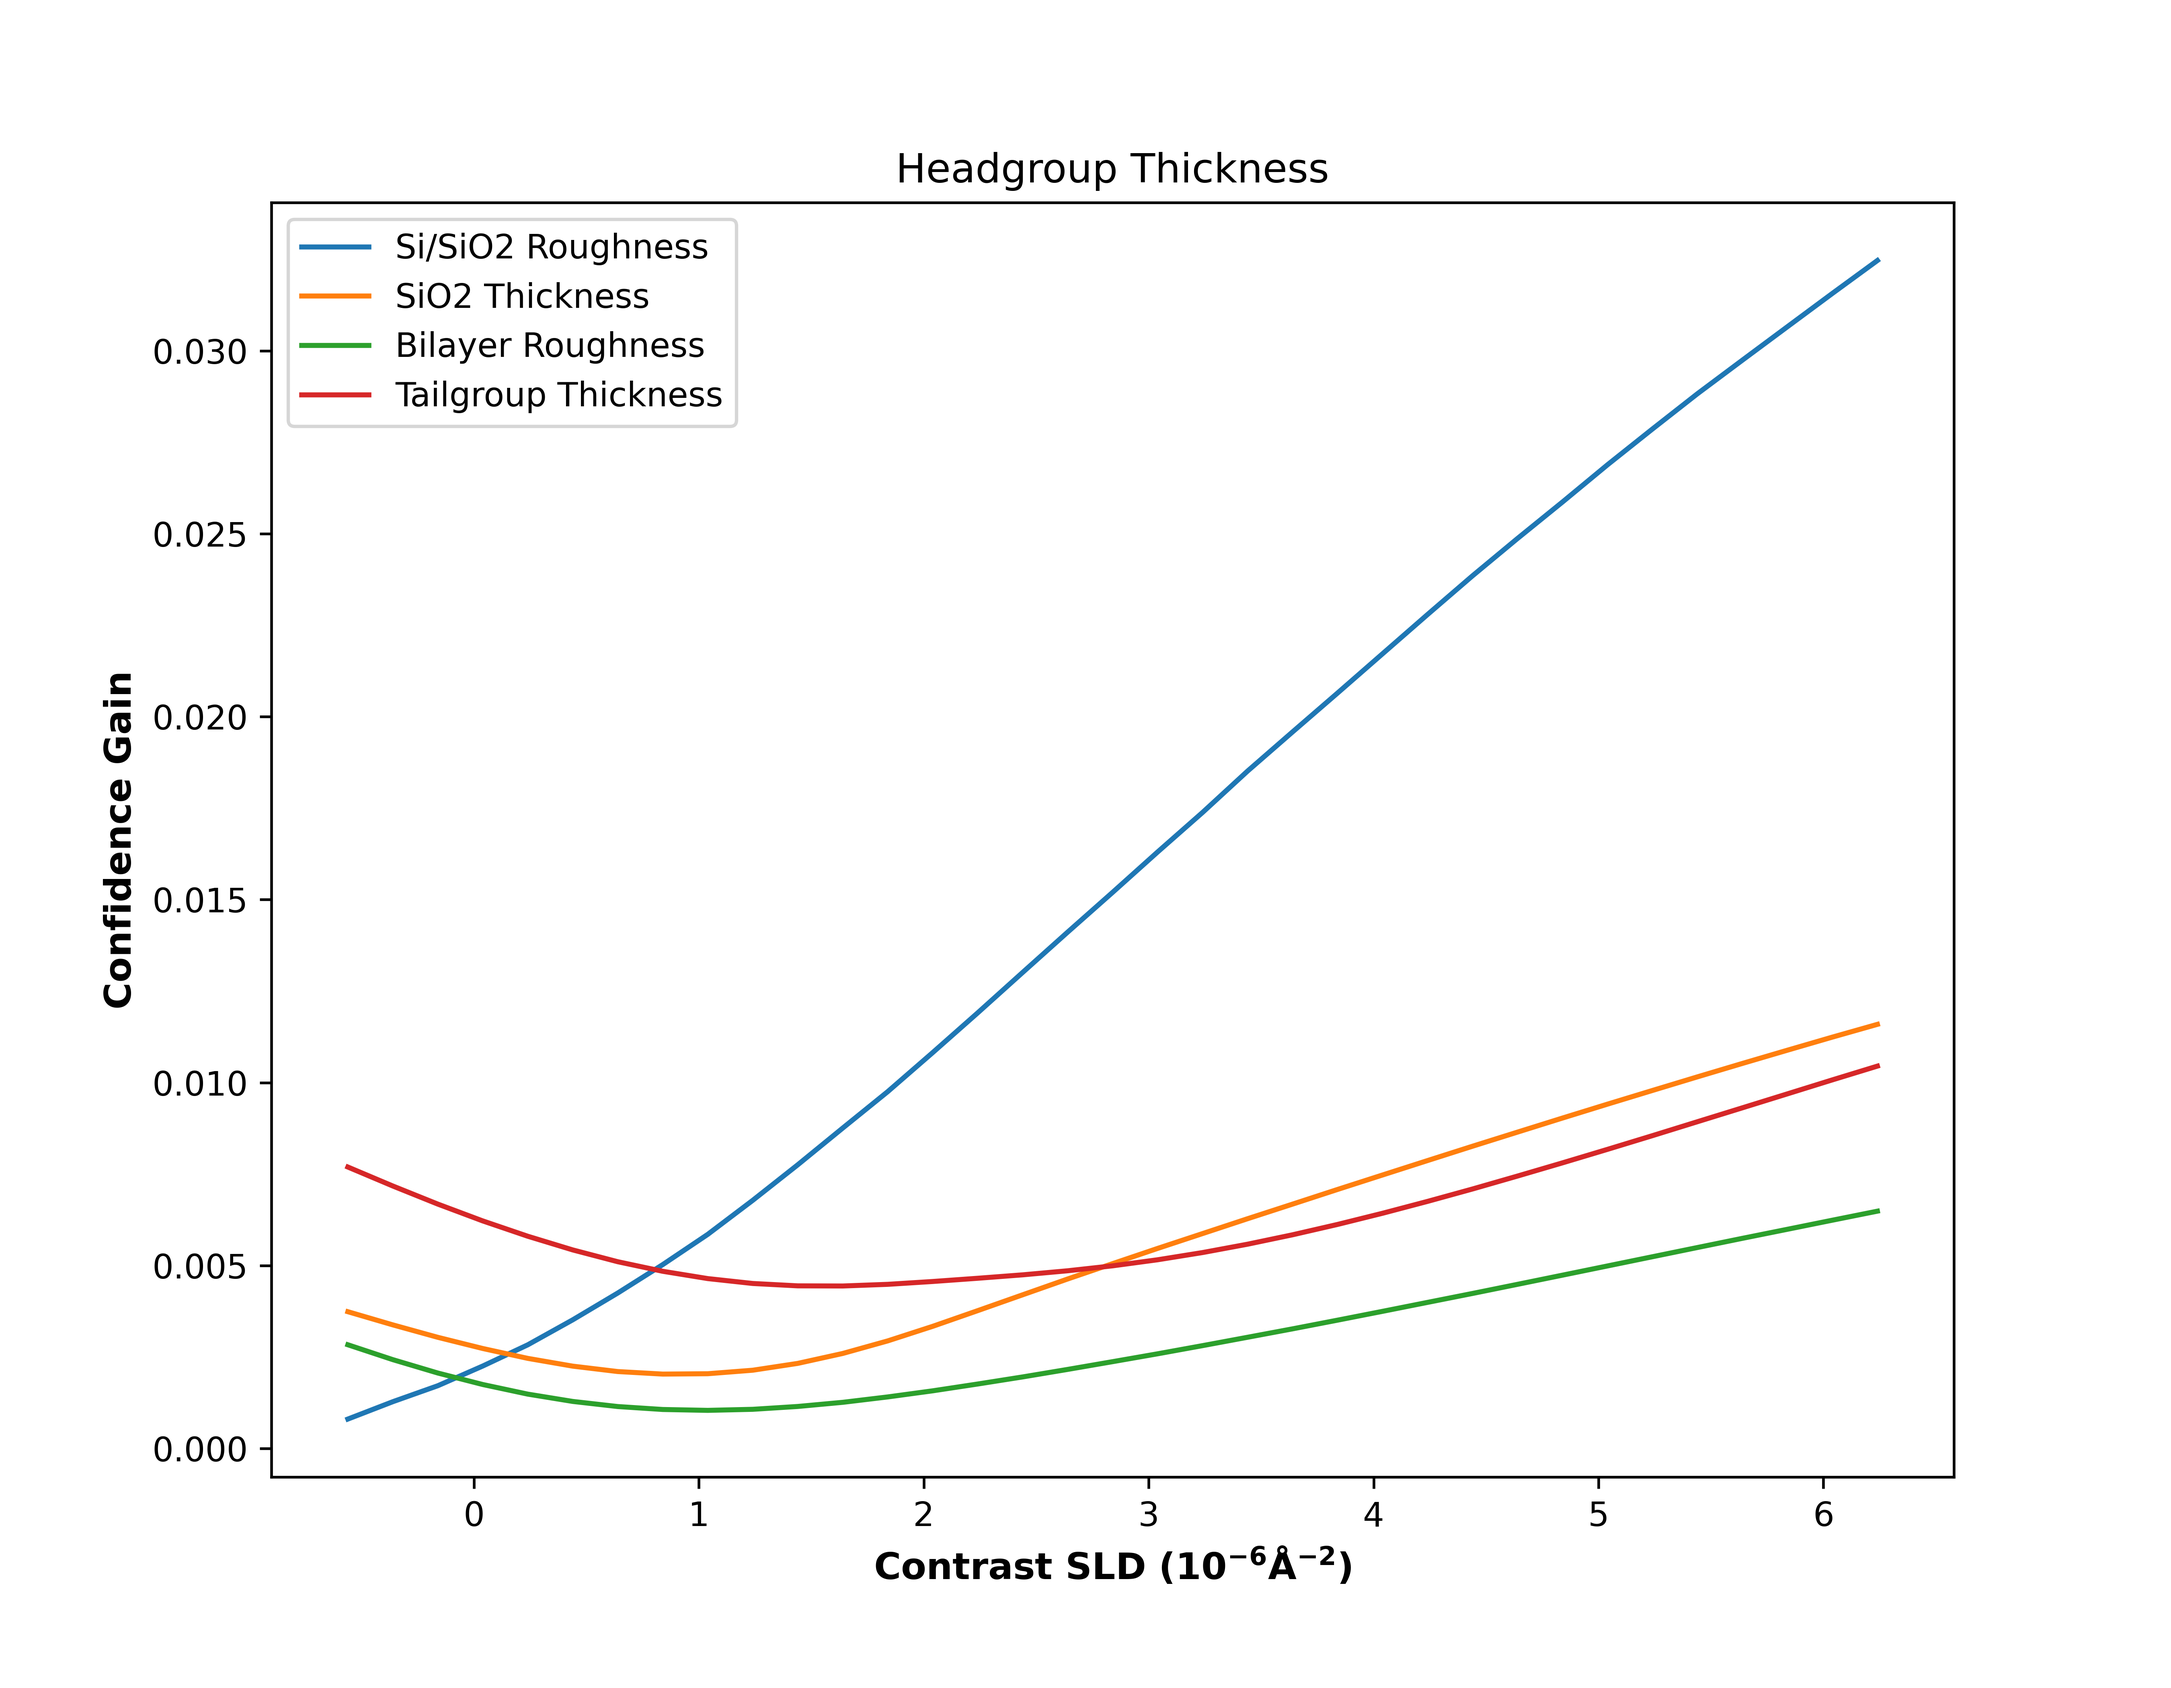
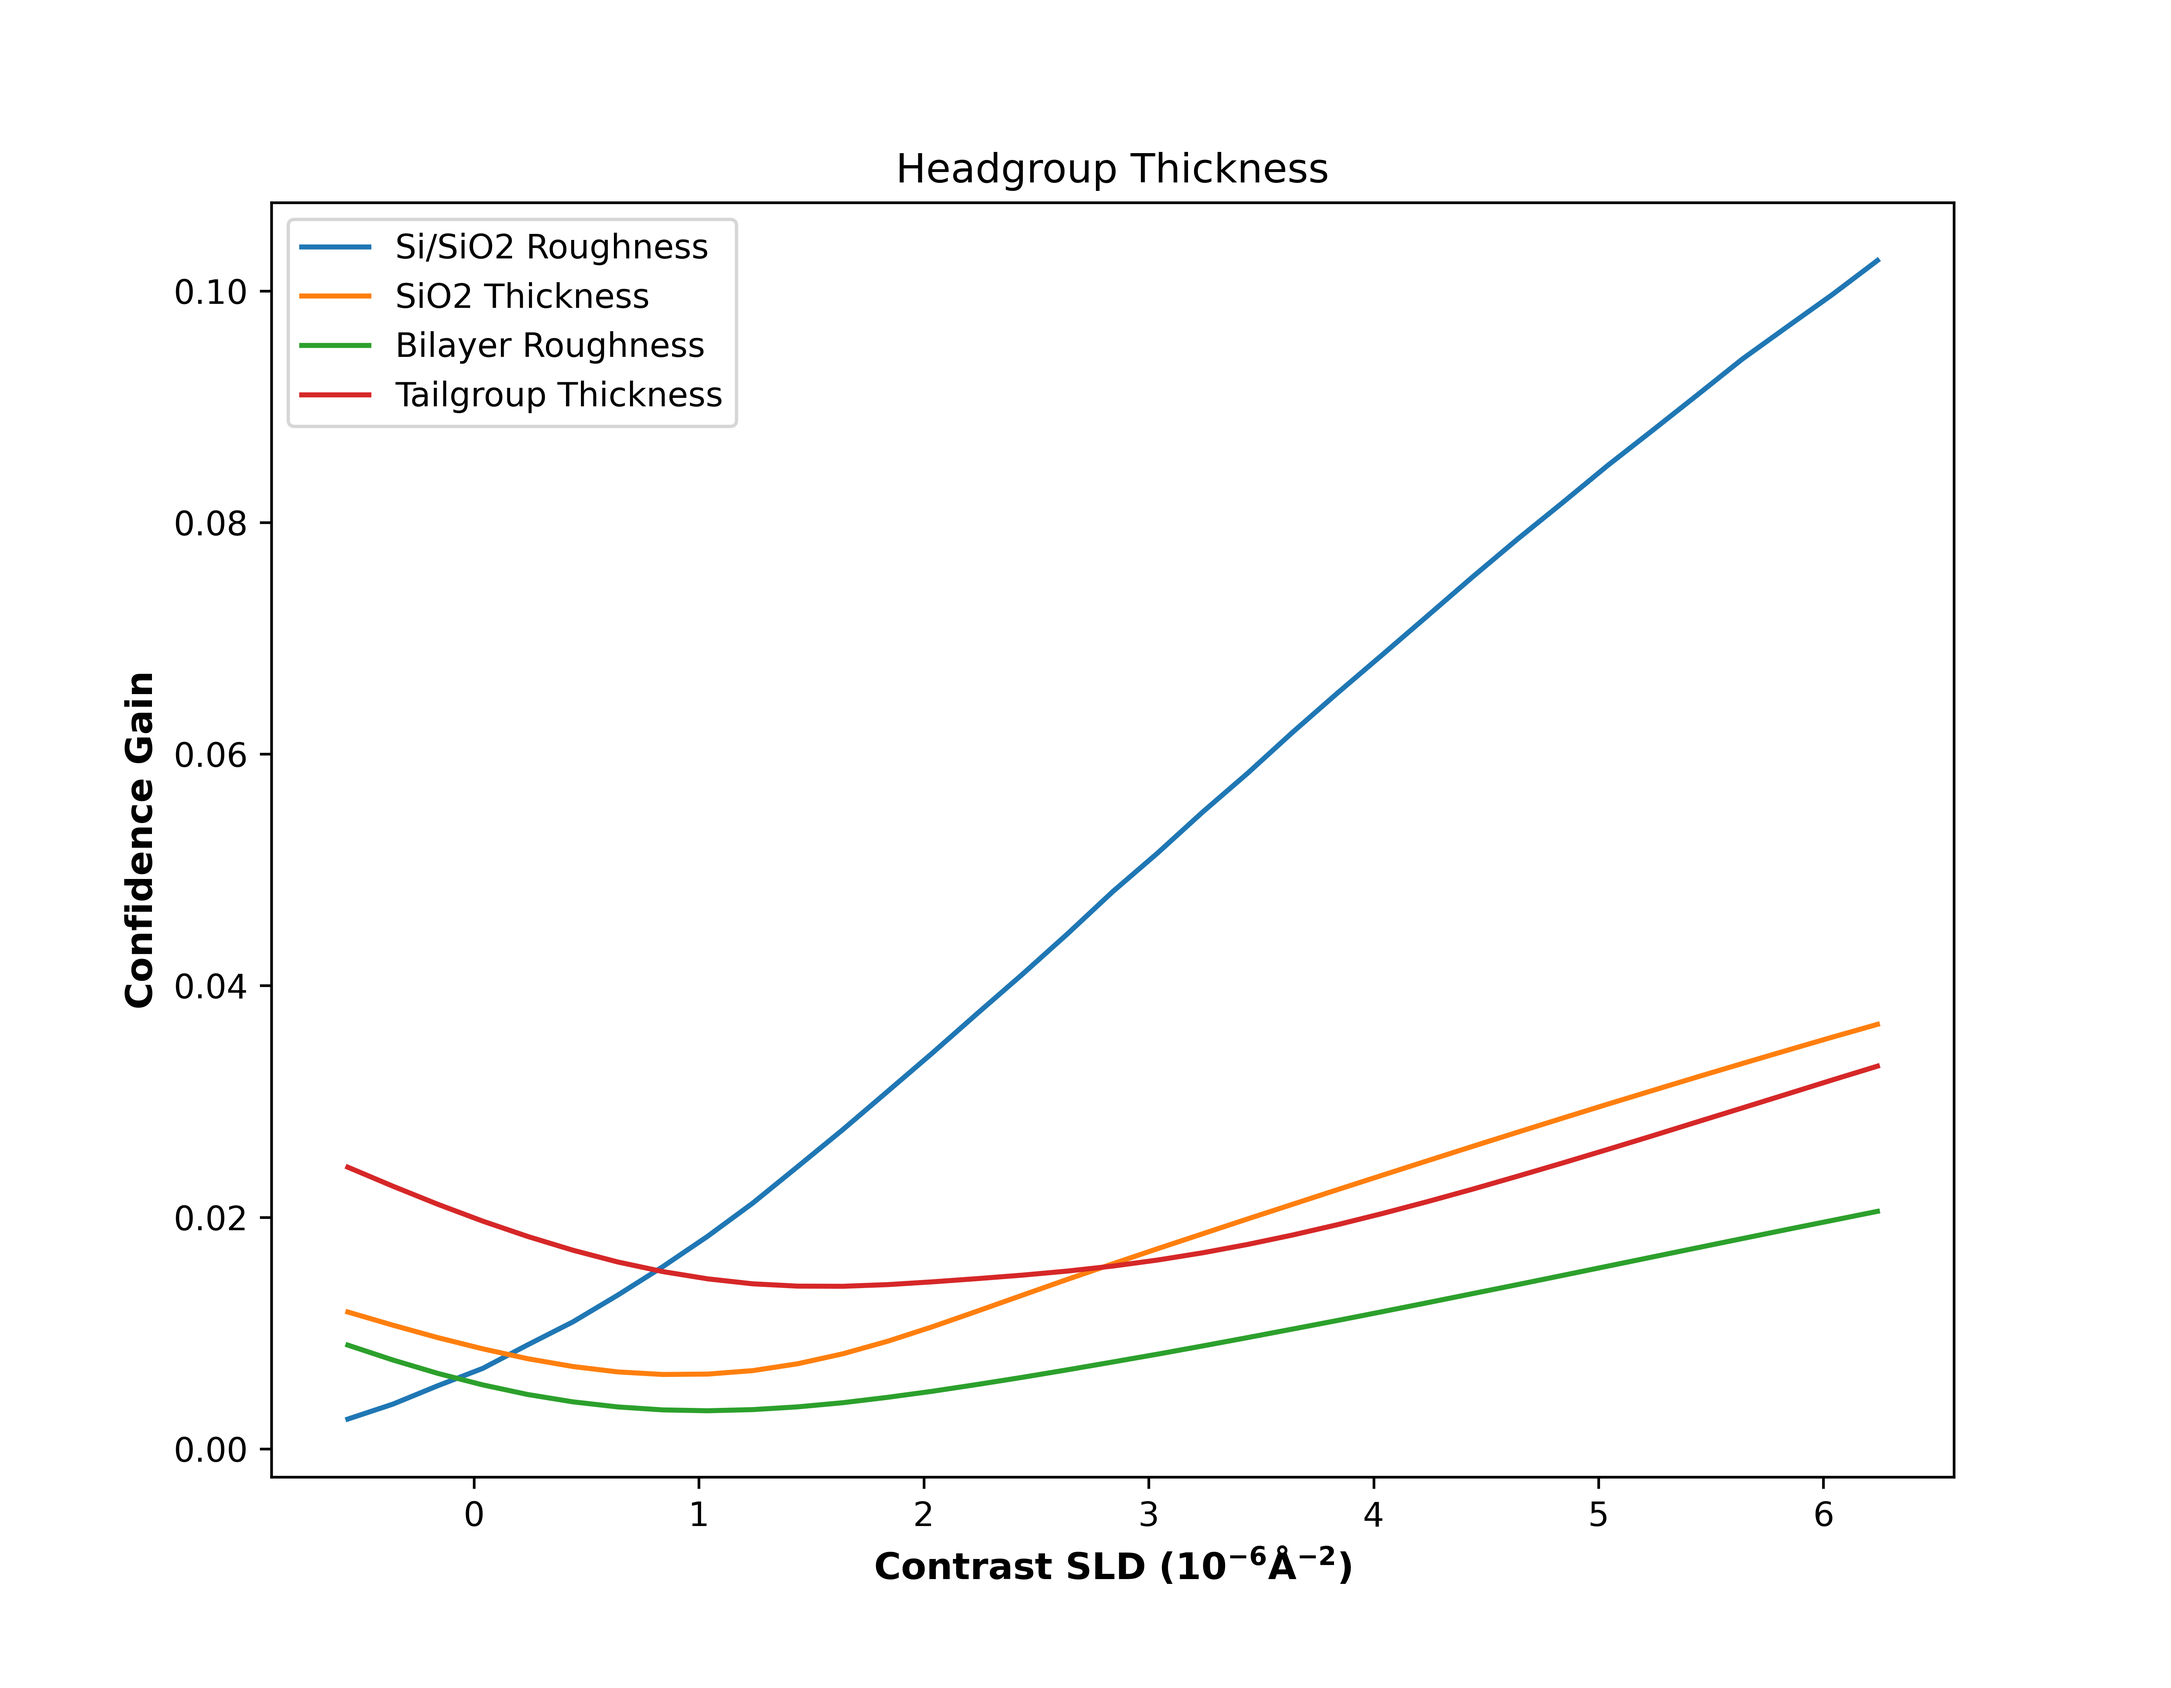
Updated results

diff --git a/bias/fitting_sampling_biases.py b/bias/fitting_sampling_biases.py
@@ -1,4 +1,3 @@
-import matplotlib.pyplot as plt
 import numpy as np
 import os
 
@@ -6,56 +5,6 @@ from refnx.analysis import Objective, CurveFitter
 from simulate import simulate
 
 from utils import Sampler, vary_structure
-
-def difference_plots_data(structure, angle_times):
-    for i in range(5):
-        model, data = simulate(structure(), angle_times)
-
-        data_sim = data.y
-        data_true = model(data.x)
-        
-        fig1 = plt.figure(figsize=[9,7], dpi=600)
-        ax1 = fig1.add_subplot(111)
-        ax1.errorbar(data.x, data.y, data.y_err, color="black", marker="o", ms=3, lw=0, elinewidth=1, capsize=1.5)
-        ax1.plot(data.x, data_true, color="red", zorder=20)
-        ax1.set_xlabel("$\mathregular{Q\ (Å^{-1})}$", fontsize=11, weight='bold')
-        ax1.set_ylabel('Reflectivity (arb.)', fontsize=11, weight='bold')
-        ax1.set_yscale('log')
-        ax1.set_xlim(0.005, 0.25)
-        ax1.set_ylim(1e-7, 2)
-        
-        diff = (data_true - data_sim) / np.asarray([sum(x) for x in zip(data_true, data_sim)]) 
-        diff_error = 2*(data.y_err / data.y)*diff
-        
-        fig2 = plt.figure(figsize=[9,7], dpi=600)
-        ax2 = fig2.add_subplot(111)
-        ax2.errorbar(data.x, diff, diff_error, color="black", elinewidth=1, capsize=1.5)
-        ax2.set_xlabel("$\mathregular{Q\ (Å^{-1})}$", fontsize=11, weight='bold')
-        ax2.set_ylabel('Difference (arb.)', fontsize=11, weight='bold')
-        ax2.set_xlim(0.005, 0.25)
-        
-        plt.show()
-
-
-def difference_plots_models(structure, angle_times, n, q=np.arange(0.005, 0.3, 0.00005)):
-    for i in range(n):
-        objective = Objective(*simulate(structure(), angle_times))
-        
-        true = objective.model(q)
-        
-        vary_structure(objective.model.structure, random=True)
-        CurveFitter(objective).fit('differential_evolution', verbose=False)
-
-        fitted = objective.model(q)
-        
-        diff = (true - fitted) / np.asarray([sum(x) for x in zip(true, fitted)]) 
-        
-        fig = plt.figure(figsize=[9,7], dpi=600)
-        ax = fig.add_subplot(111)
-        ax.plot(q, diff)
-        ax.set_xlabel("$\mathregular{Q\ (Å^{-1})}$", fontsize=11, weight='bold')
-        ax.set_ylabel('Difference (arb.)', fontsize=11, weight='bold')
-        plt.show()
 
 def evolution_vs_lbfgs(structure, angle_times, n):
     true = []
@@ -144,10 +93,9 @@ if __name__ == "__main__":
     from structures import thin_layer_sample_1, thin_layer_sample_2
     from structures import easy_sample, many_param_sample
 
-    structure   = many_param_sample
+    structure   = easy_sample
     angle_times = {0.7: (70, 5), #Angle: (Points, Time)
                    2.0: (70, 20)}
 
-    #fitting_sampling_biases(structure, angle_times, 100)
+    fitting_sampling_biases(structure, angle_times, 100)
     #evolution_vs_lbfgs(structure, angle_times, 500)
-    difference_plots_data(structure, angle_times)

diff --git a/bias/simulate.py b/bias/simulate.py
@@ -3,26 +3,22 @@ import numpy as np
 from refnx.dataset import ReflectDataset
 from refnx.reflect import ReflectModel
 
-def simulate(structure, angle_times, dq=2, bkg_rate=1e-7, include_counts=False):
-    #Define the model. 0 background for simulating as background noise is added.
-    model = ReflectModel(structure, scale=1, dq=dq, bkg=0)
+def simulate(structure, angle_times, dq=2, bkg=1e-7, include_counts=False):
+    model = ReflectModel(structure, scale=1, dq=dq, bkg=bkg)
 
     q, r, r_error, counts = [], [], [], []
     total_points = 0
     for angle in angle_times:
         #Simulate the experiment for the angle.
-        points, time  = angle_times[angle]
+        points, time = angle_times[angle]
         total_points += points
-        q_angle, r_angle, r_error_angle, counts_angle = run_experiment(model, angle, points, time, bkg_rate)
+        q_angle, r_angle, r_error_angle, counts_angle = run_experiment(model, angle, points, time)
 
         #Combine the data for the angle with the data from other angles.
-        q       += q_angle
-        r       += r_angle
+        q += q_angle
+        r += r_angle
         r_error += r_error_angle
-        counts  += counts_angle
-
-    #If fitting, the model needs to have the right background.
-    model.bkg.value = bkg_rate
+        counts += counts_angle
 
     if include_counts:
         data = np.zeros((total_points, 4))
@@ -44,8 +40,7 @@ def simulate(structure, angle_times, dq=2, bkg_rate=1e-7, include_counts=False):
     else:
         return model, ReflectDataset([data[:,0], data[:,1], data[:,2]])
 
-def run_experiment(model, angle, points, time, bkg_rate=1e-7, 
-                   directbeam_file="./data/directbeam_wavelength.dat"):
+def run_experiment(model, angle, points, time, directbeam_file="./data/directbeam_wavelength.dat"):
     #Load the directbeam_wavelength.dat file.
     direct_beam = np.loadtxt(directbeam_file, delimiter=',')
     wavelengths = direct_beam[:,0] # 1st column is wavelength, 2nd is flux.
@@ -71,7 +66,7 @@ def run_experiment(model, angle, points, time, bkg_rate=1e-7,
         count_incident = flux_point * time
 
         #Add background noise and get the measured reflected count for the bin.
-        count_reflected = np.random.poisson((r_point*flux_point + bkg_rate) * time)
+        count_reflected = np.random.poisson(r_point*flux_point*time)
 
         #Point has zero reflectivity if there is no flux.
         if count_reflected > 0:
@@ -85,6 +80,6 @@ def run_experiment(model, angle, points, time, bkg_rate=1e-7,
         else:
             r.append(0)
             r_errors.append(0)
-            counts.append(0) #Incident neutrons in the bin
+            counts.append(0)
 
     return q_binned, r, r_errors, counts

diff --git a/bias/difference_plots.py b/bias/difference_plots.py
@@ -1,0 +1,50 @@
+import matplotlib.pyplot as plt
+import numpy as np
+import os
+
+from simulate import simulate
+
+def difference_plots(structure, angle_times):
+    save_path = "./results/difference_plots/"+structure.__name__
+    if not os.path.exists(save_path):
+        os.makedirs(save_path)
+    
+    for i in range(5):
+        model, data = simulate(structure(), angle_times)
+
+        data_sim = data.y
+        data_true = model(data.x)
+        
+        fig1 = plt.figure(figsize=[9,7], dpi=600)
+        ax1 = fig1.add_subplot(111)
+        ax1.errorbar(data.x, data.y, data.y_err, color="black", marker="o", ms=3, lw=0, elinewidth=1, capsize=1.5)
+        ax1.plot(data.x, data_true, color="red", zorder=20)
+        ax1.set_xlabel("$\mathregular{Q\ (Å^{-1})}$", fontsize=11, weight='bold')
+        ax1.set_ylabel('Reflectivity (arb.)', fontsize=11, weight='bold')
+        ax1.set_yscale('log')
+        ax1.set_xlim(0.005, 0.25)
+        ax1.set_ylim(1e-7, 2)
+
+        diff = (data_true - data_sim) / np.asarray([sum(x) for x in zip(data_true, data_sim)]) 
+        diff_error = 2*(data.y_err / data.y)*diff
+        
+        fig2 = plt.figure(figsize=[9,7], dpi=600)
+        ax2 = fig2.add_subplot(111)
+        ax2.errorbar(data.x, diff, diff_error, color="black", elinewidth=1, capsize=1.5)
+        ax2.set_xlabel("$\mathregular{Q\ (Å^{-1})}$", fontsize=11, weight='bold')
+        ax2.set_ylabel('Difference (arb.)', fontsize=11, weight='bold')
+        ax2.set_xlim(0.005, 0.25)
+        
+        fig1.savefig(save_path+'/{}_reflectivity.png'.format(i+1))
+        fig2.savefig(save_path+'/{}_difference.png'.format(i+1))
+        
+if __name__ == "__main__":
+    from structures import similar_sld_sample_1, similar_sld_sample_2
+    from structures import thin_layer_sample_1, thin_layer_sample_2
+    from structures import easy_sample, many_param_sample
+
+    structure   = many_param_sample
+    angle_times = {0.7: (70, 5), #Angle: (Points, Time)
+                   2.0: (70, 20)}
+
+    difference_plots(structure, angle_times)

diff --git a/bias/usefulness.py b/bias/usefulness.py
@@ -1,0 +1,37 @@
+import numpy as np
+
+from refnx.analysis import Objective, CurveFitter
+
+from simulate import simulate
+from utils import vary_structure
+
+def usefulness(structure, angle_times):
+    objective = Objective(*simulate(structure(), angle_times))
+    vary_structure(objective.model.structure, random=True)
+    
+    CurveFitter(objective).fit('differential_evolution', verbose=False)
+    
+    covar = objective.covar()
+    
+    n = len(objective.varying_parameters())
+    
+    pearson_rs = [covar[i,j] / (np.sqrt(covar[i,i])*np.sqrt(covar[j,j]))
+                  for i in range(n)
+                      for j in range(i+1, n)]
+    
+    return 1-np.mean(np.abs(pearson_rs))
+
+if __name__ == "__main__":
+    from structures import similar_sld_sample_1, similar_sld_sample_2
+    from structures import thin_layer_sample_1, thin_layer_sample_2
+    from structures import easy_sample, many_param_sample
+    
+    angle_times = {0.7: (70, 5), #Angle: (Points, Time)
+                   2.0: (70, 20)}
+    
+    structures = [similar_sld_sample_1, similar_sld_sample_2,
+                  thin_layer_sample_1, thin_layer_sample_2,
+                  easy_sample, many_param_sample]
+    
+    for structure in structures:
+        print(usefulness(structure, angle_times))

diff --git a/bias/confidence_gain.py b/bias/confidence_gain.py
@@ -79,8 +79,8 @@ def plot_confidences(confidence_gains, contrasts):
         fig.savefig(save_path+"/DMPC_{}.png".format(i+1))
 
 if __name__ == "__main__":
-   angle_times = {0.7: (70, 500), #Angle: (Points, Time)
-                  2.0: (70, 2000)}
+   angle_times = {0.7: (70, 50), #Angle: (Points, Time)
+                  2.0: (70, 200)}
    initial = 6.36
    contrasts = np.arange(-0.56, 6.36, 0.2)
    confidence_gain(initial, contrasts, angle_times)
